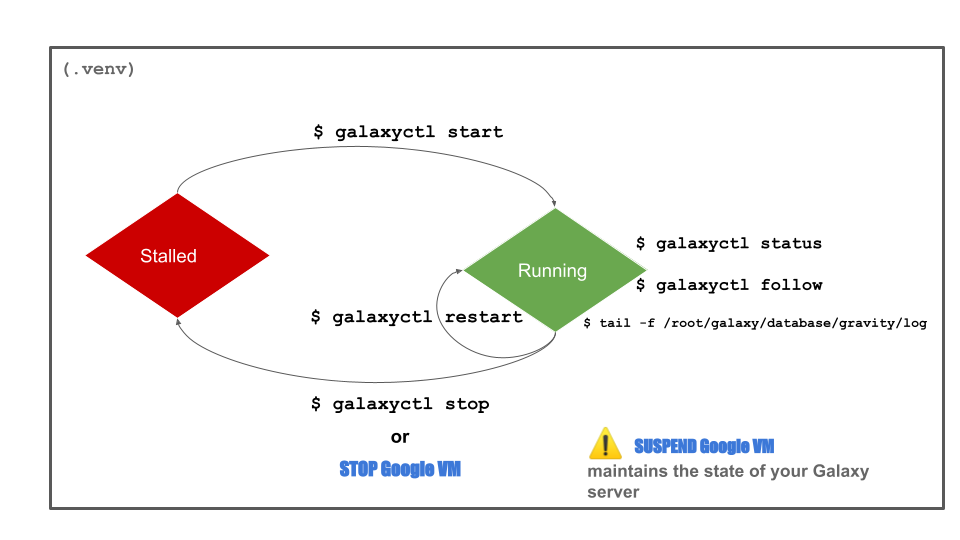
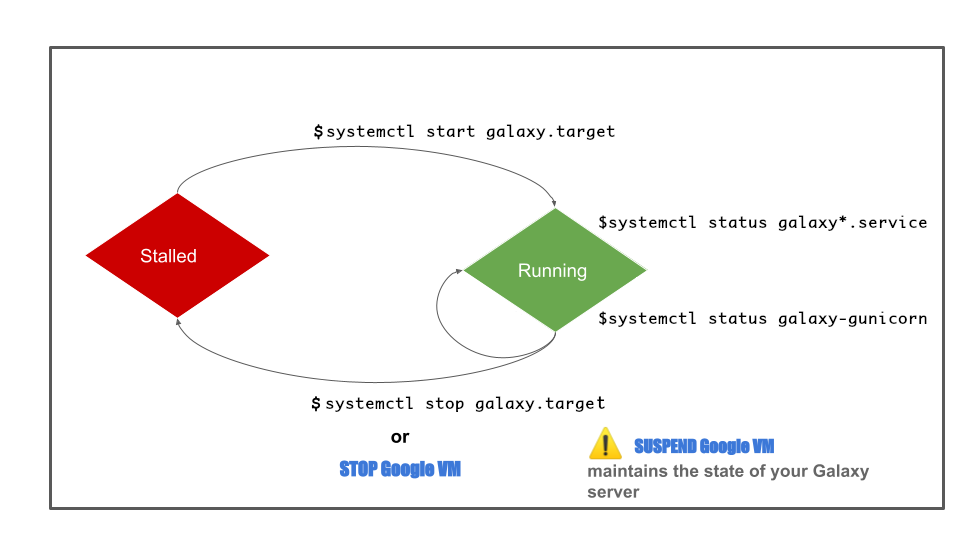
a few change in galaxy management doc (simplification)

diff --git a/docs/AnalyseGenomes_2023/manage_galaxy.md b/docs/AnalyseGenomes_2023/manage_galaxy.md
@@ -1,86 +1,26 @@
-??? info "Galaxy server commands, quick reminder"
-    Check that the server is running
+!!! info "Galaxy server commands, quick reminder"
+    Check that the server is running and see last logs
     ```
-    galaxyctl status
+    systemctl status galaxy*.service
+    
+    # the three services Galaxy celery-beat, celery and gunicorn must be
+    # active and running (green)
     ```
     Restart the server
     ```
-    galaxyctl restart
+    systemctl restart galaxy.target
     ```
     Start the Galaxy server, if for any reason it is down
     ```
-    galaxyctl start
+    systemctl start galaxy.target
     ```
-    Follow the activity of Galaxy
+    Follow the activity of the web part only (gunicorn) of the Galaxy server:
     ```
-    galaxyctl follow
-    ```
-    Follow the activity of the web part only of the Galaxy server:
-    ```
-    tail -f /root/galaxy/database/gravity/log/gunicorn.log
+    systemctl status galaxy-gunicorn.service
     ```
 
 ## A graphical view of the Galaxy server states and the commands to control them
 
 ![Galaxy server states](images/GalaxyStates-AG2022.png){width="1200"}
 
-## Commands to control the Galaxy server
-
-### The Galaxy server virtual environment
-
-First of all, you must keep in mind that the next commands are only accessible through
-the virtual environment that has been installed during the Galaxy deployment.
-
-It is easy to remember that you are actually working through this virtual environment,
-because it is indicated in you shell prompt as `(.venv)` when you connect as the admin
-user:
-
-Thus, when you execute `sudo -i`, you immediately see:
-```
-(.venv) root@bare-galaxy:~#
-```
-
-You don't have to worry about activating the .venv environment because during the
-deployment we automated this activation as soon as you log in to the admin account.
-
-However, if for any reason you were disconnected from the virtual environment (loosing
-the `.venv` in the prompt), you can always reactivate it by typing:
-
-```
-source ~/galaxy/.venv/bin/activate
-```
-
-You can experiment this by
-
-1. Deactivating the virtual environment
-  ```
-  deactivate
-  ```
-2. Reactivating it:
-  ```
-  source ~/galaxy/.venv/bin/activate
-  ```
-
-### The useful commands to control the Galaxy server
-
-1. Check that the server is running
-  ```
-  galaxyctl status
-  ```
-2. Restart the server
-  ```
-  galaxyctl restart
-  ```
-3. Start the Galaxy server, if for any reason it is down
-  ```
-  galaxyctl start
-  ```
-4. Follow the activity of Galaxy
-  ```
-  galaxyctl follow
-  ```
-5. Follow the activity of the web part only of the Galaxy server:
-  ```
-  tail -f /root/galaxy/database/gravity/log/gunicorn.log
-  ```
-  
+---

diff --git a/docs/AnalyseGenomes_2023/manage_VM.md b/docs/AnalyseGenomes_2023/manage_VM.md
@@ -4,19 +4,17 @@ If you read this, you have probably launched at least one time a Google Virtual 
 
 A few rules to get your life easier during the rest of this training:
 
-- ==**Never** stop your VM, instead **suspend** it==
+- ==**Avoid** stopping your VM, instead **suspend** it==
   
   Stopping your VM is like stopping your PC or you laptop.
   
   You will stop everything and will have to literally reboot everything, including
-  the Galaxy server. It is not that difficult actually (see below). However, you have
-  many things to learn these days and it better not use your time and memory just to do
-  that.
+  the Galaxy server. It is not that difficult actually, but it takes a bit more time.
   
   Instead, **Suspending** your VM is like putting your PC in sleeping mode, or closing
   the lid of your laptop.
   
-  Thus, remember, at the end of the day or whenever you will not use your VM for a long
+  Thus, remember, at the end of the day or whenever you are not going to use your VM for a long
   time, use:
   
   ![suspend](images/suspend.png)

diff --git a/docs/AnalyseGenomes_2023/Install_tools.md b/docs/AnalyseGenomes_2023/Install_tools.md
@@ -24,7 +24,7 @@ Select `Manage API Key`, click `Create a new Key`, and copy the current API key
 
 and press the ++return++ key
 
-The tool installation should start immediately and last for about 11 minutes (you should
+The tool installation should start immediately and last for about 15 minutes (you should
 see tools installing one at a time)
 
 ---

diff --git a/docs/AnalyseGenomes_2023/deploy-galaxy-server.md b/docs/AnalyseGenomes_2023/deploy-galaxy-server.md
@@ -44,7 +44,7 @@ Naturally, the nextime you start Galaxy, the process will be quickly skipped.
 
 <center>
 
-![](images/coffee_time.png)
+![](images/coffee_time.png){width="200"}
 </center>
 
 When deployment is finished, you will see the following log in the console:
